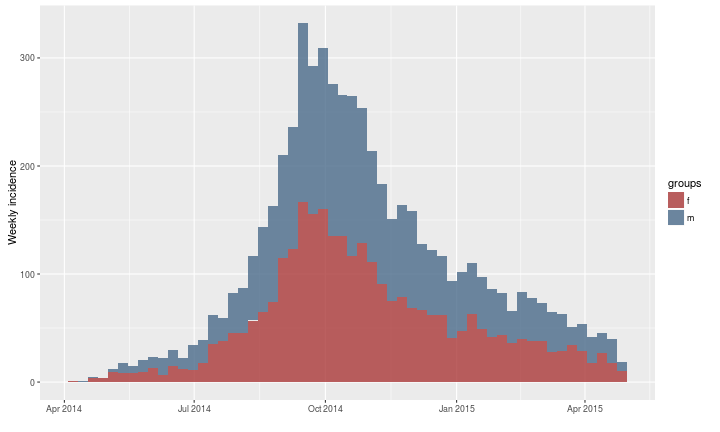
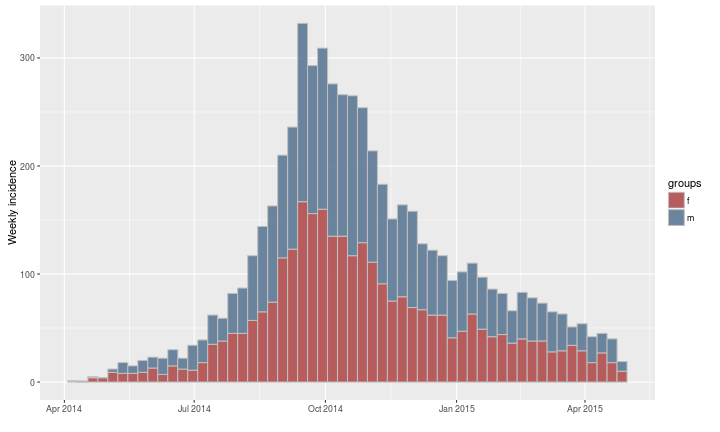
adding borders

diff --git a/README.md b/README.md
@@ -28,11 +28,11 @@ Note that this requires the package *devtools* installed.
 The main functions of the package include:
 
 - **`incidence`**: compute incidence from dates in various formats; any fixed time interval can be used; the returned object is an instance of the (S3) class *incidence*.
-- **`subset`**: subset an *incidence* object by specifying a time window.
-- **`[`**: lower-level subsetan of *incidence* objects, permiting to specify which dates and groups to retain; uses a syntax similar to matrices, i.e. `x[i, j]`, where `x` is the *incidence* object, `i` a subset of dates, and `j` a subset of groups.
+- **`plot`**: this method (see `?plot.incidence` for details) plots *incidence* objects, and can also add predictions of the model(s) contained in an  *incidence.fit* object (or a list of such objects).
 - **`fit`**: fit one or two exponential models (i.e. linear regression on log-incidence) to an *incidence* object; two models are calibrated only if a date is provided to split the time series in two (argument `split`); this is typically useful to model the two phases of exponential growth, and decrease of an outbreak; each model returned is an instance of the (S3) class *incidence.fit*, each of which contains various useful information (e.g. growth rate *r*, doubling/halving time, predictions and confidence intervals).
 - **`fit.optim.split`**: finds the optimal date to split the time series in two, typically around the peak of the epidemic.
-- **`plot`**: this method (see `?plot.incidence` for details) plots *incidence* objects, and can also add predictions of the model(s) contained in an  *incidence.fit* object (or a list of such objects).
+- **`[`**: lower-level subsetan of *incidence* objects, permiting to specify which dates and groups to retain; uses a syntax similar to matrices, i.e. `x[i, j]`, where `x` is the *incidence* object, `i` a subset of dates, and `j` a subset of groups.
+- **`subset`**: subset an *incidence* object by specifying a time window.
 - **`pool`**: pool incidence from different groups into one global incidence time series.
 
 
@@ -142,7 +142,7 @@ i.7.sex
 ```
 
 ```r
-plot(i.7.sex, stack = TRUE)
+plot(i.7.sex, stack = TRUE, border = "grey")
 ```
 
 ![plot of chunk gender](figs/gender-1.png)
@@ -240,7 +240,7 @@ i.7.outcome
 ```
 
 ```r
-plot(i.7.outcome, stack = TRUE)
+plot(i.7.outcome, stack = TRUE, border = "grey")
 ```
 
 ![plot of chunk i7outcome](figs/i7outcome-1.png)
@@ -263,7 +263,7 @@ i.7.outcome[,1:2]
 ```
 
 ```r
-plot(i.7.outcome[,1:2], stack = TRUE)
+plot(i.7.outcome[,1:2], stack = TRUE, border = "grey")
 ```
 
 ![plot of chunk groupsub](figs/groupsub-1.png)
